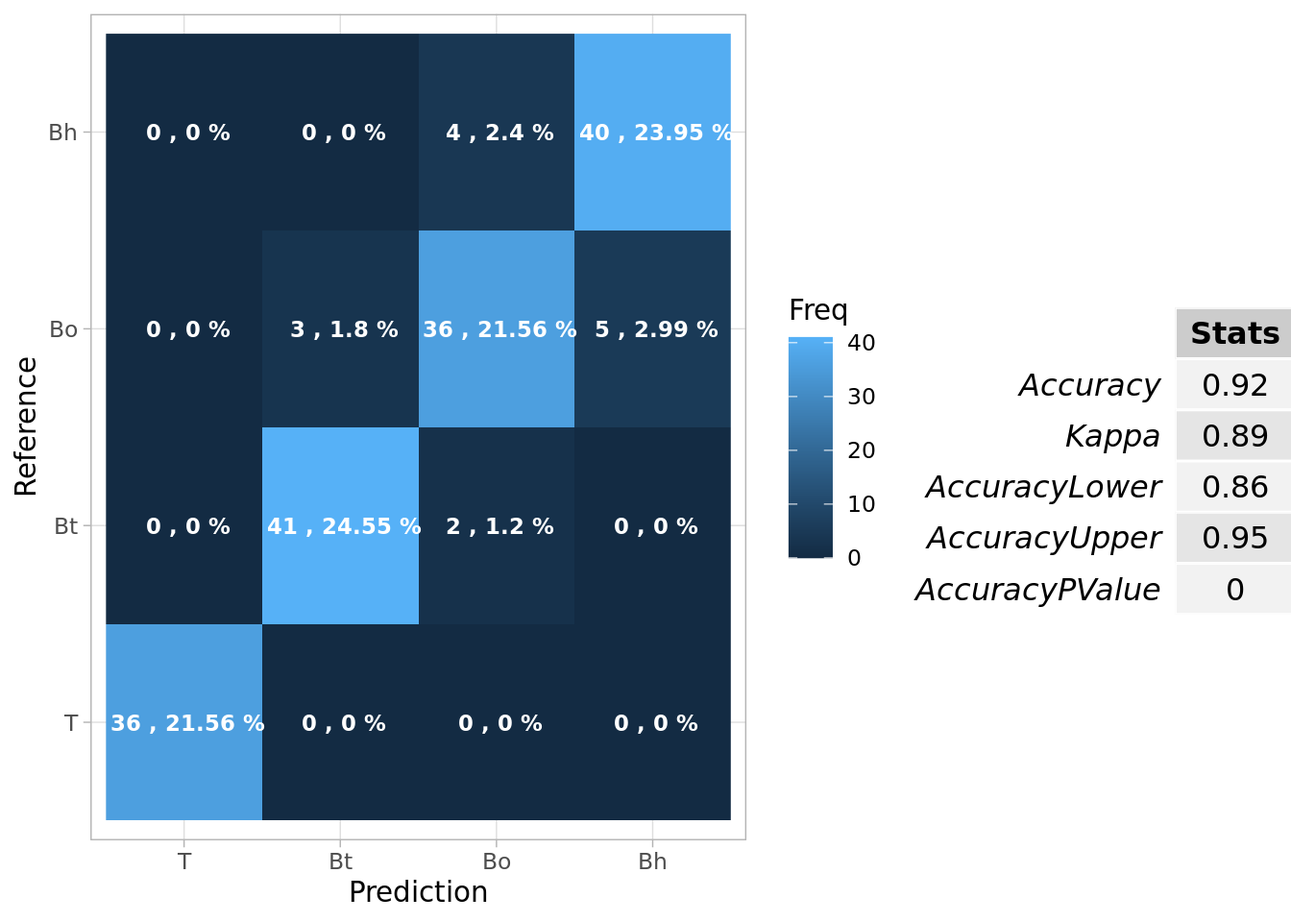
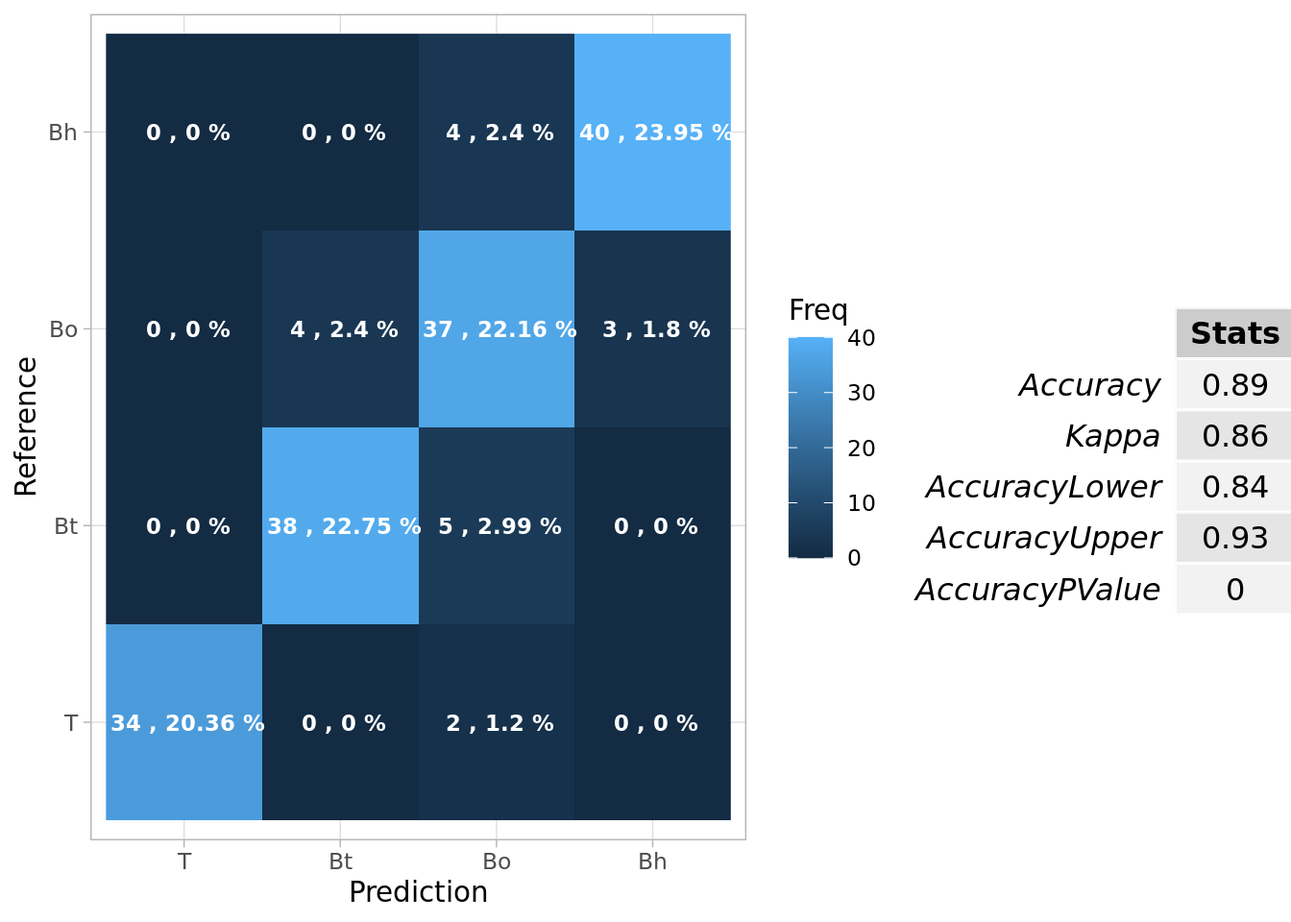
final report

diff --git a/classification.html b/classification.html
@@ -625,12 +625,12 @@ div.tocify {
 <a class="sourceLine" id="cb4-96" data-line-number="96">                       helperRFSelection[[<span class="st">&quot;maximalChangeIndex&quot;</span>]],</a>
 <a class="sourceLine" id="cb4-97" data-line-number="97">                       <span class="dt">preFiltered =</span> preFiltered)</a></code></pre></div>
 <div class="figure" style="text-align: center">
-<img src="figures/02_combinatorix_prepareSelect-1.png" alt="**Figure 1**: Plot of the development of the Random Forest variable importance of the 200 most important genes. For practical reasons concerning the smoothing, I limited the number of genes to 200. The red dots show the actual value of the variable importance, the green line smoothes these values and the blue vertical line indicated the point where the smoothed line changes the most." width="672" />
+<img src="figures/02_combinatorix_prepareSelect-1.png" alt="**Figure 1**: Plot of the development of the Random Forest variable importance of the 200 most important genes. For practical reasons concerning the smoothing, I limited the number of genes to 200. The red dots show the actual value of the variable importance, the green line smothes these values and the blue vertical line indicated the point where the smoothed line changes the most." width="672" />
 <p class="caption">
-<strong>Figure 1</strong>: Plot of the development of the Random Forest variable importance of the 200 most important genes. For practical reasons concerning the smoothing, I limited the number of genes to 200. The red dots show the actual value of the variable importance, the green line smoothes these values and the blue vertical line indicated the point where the smoothed line changes the most.
+<strong>Figure 1</strong>: Plot of the development of the Random Forest variable importance of the 200 most important genes. For practical reasons concerning the smoothing, I limited the number of genes to 200. The red dots show the actual value of the variable importance, the green line smothes these values and the blue vertical line indicated the point where the smoothed line changes the most.
 </p>
 </div>
-<p>Accordingly to the plot, I chose to use 50 genes, when performing the feature selection. For the comparison of the classifiers, I used two sets of selected genes: One set where I selected 50 genes and one set where I included all genes. Of course, there are many other ways to determine how many features should be included. The advantage of my approach is that it is reusable and that it quantifies the loss of importance of the features. The drawbacks are that it does not account for the total number of features in the data set and the selected number can be unfavorable in extreme cases of the distribution of the variable importance i.e. it selects only one or all genes. However, it was not the focus of this report to find a method that optimally selects the number of features. Thus, I wanted just an automated, out of the box way to do this. Figure 2 shows the same plot for the variance.</p>
+<p>Accordingly to the plot, I chose to use 50 genes, when performing the feature selection. For the comparison of the classifiers, I used two sets of selected genes: One set where I selected 50 genes and one set where I included all genes. Of course, there are many other ways to determine how many features should be included. The advantage of my approach is that it is reusable and that it quantifies the loss of importance of the features. The drawbacks are that it does not account for the total number of features in the data set and the selected number can be unfavorable in extreme cases of the distribution of the variable importance i.e. it selects only one or all genes. However, it was not the focus of this report to find a method that optimally selects the number of features. Thus, I wanted just an automated, out of the box way to do this. Figure 2 shows the same plot for the variance. Here I chose 125 genes.</p>
 <div class="sourceCode" id="cb5"><pre class="sourceCode r"><code class="sourceCode r"><a class="sourceLine" id="cb5-1" data-line-number="1"><span class="co">## Function for selecting genes based on Variance</span></a>
 <a class="sourceLine" id="cb5-2" data-line-number="2">SelectGenesByVariance &lt;-<span class="st"> </span><span class="cf">function</span>(trainIndex,</a>
 <a class="sourceLine" id="cb5-3" data-line-number="3">                                  numFeatures,</a>
@@ -650,9 +650,9 @@ div.tocify {
 <a class="sourceLine" id="cb5-17" data-line-number="17">                       helperVarSelection[[<span class="st">&quot;maximalChangeIndex&quot;</span>]],</a>
 <a class="sourceLine" id="cb5-18" data-line-number="18">                       <span class="dv">500</span>)</a></code></pre></div>
 <div class="figure" style="text-align: center">
-<img src="figures/02_combinatorix_plotVariance-1.png" alt="**Figure 2**: Plot of the variance of the 500 genes with the highest variances across samples. For practical reasons concerning the smoothing, I limited the number of genes to 500. The red dots show the actual value of the variable importance, the green line smoothes these values and the blue vertical line indicated the point where the smoothed line changes the most." width="672" />
+<img src="figures/02_combinatorix_plotVariance-1.png" alt="**Figure 2**: Plot of the variance of the 500 genes with the highest variances across samples. For practical reasons concerning the smoothing, I limited the number of genes to 500. The red dots show the actual value of the variable importance, the green line smothes these values and the blue vertical line indicated the point where the smoothed line changes the most." width="672" />
 <p class="caption">
-<strong>Figure 2</strong>: Plot of the variance of the 500 genes with the highest variances across samples. For practical reasons concerning the smoothing, I limited the number of genes to 500. The red dots show the actual value of the variable importance, the green line smoothes these values and the blue vertical line indicated the point where the smoothed line changes the most.
+<strong>Figure 2</strong>: Plot of the variance of the 500 genes with the highest variances across samples. For practical reasons concerning the smoothing, I limited the number of genes to 500. The red dots show the actual value of the variable importance, the green line smothes these values and the blue vertical line indicated the point where the smoothed line changes the most.
 </p>
 </div>
 <div class="sourceCode" id="cb6"><pre class="sourceCode r"><code class="sourceCode r"><a class="sourceLine" id="cb6-1" data-line-number="1"><span class="co">#### Feature Selection ####</span></a>
@@ -870,9 +870,9 @@ div.tocify {
 </tr>
 <tr class="odd">
 <td>RF 1000 Trees all Genes</td>
-<td align="right">0.0479</td>
-<td align="right">0.9521</td>
-<td align="left">0.9197-0.9845</td>
+<td align="right">0.0539</td>
+<td align="right">0.9461</td>
+<td align="left">0.9119-0.9804</td>
 </tr>
 <tr class="even">
 <td>RF 200 Trees RF Selection</td>
@@ -888,15 +888,15 @@ div.tocify {
 </tr>
 <tr class="even">
 <td>RF 1000 Trees RF Selection</td>
-<td align="right">0.0838</td>
-<td align="right">0.9162</td>
-<td align="left">0.8741-0.9582</td>
+<td align="right">0.1018</td>
+<td align="right">0.8982</td>
+<td align="left">0.8523-0.9441</td>
 </tr>
 <tr class="odd">
 <td>RF 200 Trees Variance Selection</td>
-<td align="right">0.1138</td>
-<td align="right">0.8862</td>
-<td align="left">0.8381-0.9344</td>
+<td align="right">0.1078</td>
+<td align="right">0.8922</td>
+<td align="left">0.8452-0.9392</td>
 </tr>
 <tr class="even">
 <td>RF 500 Trees Variance Selection</td>
@@ -912,9 +912,9 @@ div.tocify {
 </tr>
 </tbody>
 </table>
-<p>The accuracy when using all genes is with 94% very high. The 95% confidence interval is also reasonably narrow, which gives security about the result. An accuracy of 94% means that 94% of the samples were classified correctly. The number of trees seems to have no influence on the prediction accuracy when using all genes. Only when training the Classifier with a subset of selected genes the number of trees seems to influence the prediction accuracy. Increasing the number of trees from 200 to 500, lead to an improvement in the accuracy of 10.6 percentage points. A further increase in the number of trees did not improve the prediction accuracy. The feature selection did not have an impact on the prediction when the Random Forest Classifier was trained with more than 200 trees and it decreased the accuracy when trained with 200 trees.</p>
-<p>It is a bit unexpected that the number of trees did not have a meaningful influence on prediction accuracy. The used numbers of trees were all rather high and thus could be already considered as nearly optimal. The reason why I used many trees, is that the data set does contain over 20,000 genes. So using fewer trees could have lead to more differences in the prediction accuracies. The fact that feature selection did not have a meaningful impact on the Classifier is not unexpected. Firstly, Random Forests can deal with a large number of covariates <span class="citation">(Breiman 2001)</span>. This is due to the fact that it uses only a subset of covariates at each split. Secondly, I have already used a Random Forest to select covariates.</p>
-<p>In the following, I will report on the detailed results of the Random Forest Classifier with 1000 trees and all genes (which yields the exact same results as the other Random Forest Classifiers expect one). Additionally, I report on the results of the Random Forest Classifier when trained with 50 genes and 200 trees.</p>
+<p>The accuracy when using all genes is with over 94% very high. The 95% confidence interval is also reasonably narrow, which gives security about the result. An accuracy of 94% means that 94% of the samples were classified correctly. The number of trees seems to have little to no influence on the prediction accuracy when using all genes. Contemplating the prediction accuracy when the classifier was trained with the 50 selected genes by the Random Forest Variable Importance, the number of trees still has no meaningful impact. The accuracy ranges from 90% to 93% and is with that slightly lower than when trained with all genes. In contrast when the Classifier was trained with with the genes selected by the variance method the results were strange. The Random Forest with 500 trees did not classify anything correct. I regard this as an outlier, but in general that makes the Classifier highly questionable. Especially in the light that the prediction accuracy was high when trained with 200 genes (87 %) and 1000 genes (95 %). So here the increase of the number of trees lead to an increase in the accuracy.</p>
+<p>It is a bit unexpected that the number of trees did not have a meaningful influence on most of the prediction accuracies. The used numbers of trees were all rather high and thus could be already considered as nearly optimal. The reason why I used many trees, is that the data set does contain over 20,000 genes. So using fewer trees could have lead to more differences in the prediction accuracies. The fact that feature selection did not have a meaningful impact on the Classifier is not unexpected. Firstly, Random Forests can deal with a large number of covariates <span class="citation">(Breiman 2001)</span>. This is due to the fact that it uses only a subset of covariates at each split. Secondly, I have already used a Random Forest to select covariates. The one thing that stands out is that the one parametrization of the classifier did not classify anything correct. This makes the classifier highly unreliable.</p>
+<p>In the following, I will report on the detailed results of the Random Forest Classifier with 1000 trees and all genes (which yields the exact same results as the other Random Forest Classifiers expect one). Additionally, I report on the results of the Random Forest Classifier when trained with 125 genes (selected with the variance method) and 200 trees.</p>
 <div class="sourceCode" id="cb9"><pre class="sourceCode r"><code class="sourceCode r"><a class="sourceLine" id="cb9-1" data-line-number="1"><span class="co">#### Functions for displaying the results ####</span></a>
 <a class="sourceLine" id="cb9-2" data-line-number="2"><span class="co">## Functions for plotting a heatmap of a confusion table</span></a>
 <a class="sourceLine" id="cb9-3" data-line-number="3">plotResults &lt;-<span class="st"> </span><span class="cf">function</span>(res, response) {</a>
@@ -946,14 +946,14 @@ div.tocify {
 <strong>Figure 3</strong> shows a heatmap of the confusion table on the left and accuracy statistics on the right. This particular data comes from the Random Forest Classifier when trained with 1000 trees and all genes. Notes: T: T-ALL, Bt: TEL-AML1, Bo: pre-B ALL, Bh: hyperdiploid.
 </p>
 </div>
-<div class="sourceCode" id="cb10"><pre class="sourceCode r"><code class="sourceCode r"><a class="sourceLine" id="cb10-1" data-line-number="1"><span class="kw">plotResults</span>(resultVector[[<span class="dv">6</span>]], response)</a></code></pre></div>
+<div class="sourceCode" id="cb10"><pre class="sourceCode r"><code class="sourceCode r"><a class="sourceLine" id="cb10-1" data-line-number="1"><span class="kw">plotResults</span>(resultVector[[<span class="dv">7</span>]], response)</a></code></pre></div>
 <div class="figure" style="text-align: center">
 <img src="figures/02_combinatorix_rfSecond-1.png" alt="**Figure 4** shows a heatmap of the confusion table on the left and accuracy statistics on the right. This particular data comes from the Random Forest Classifier when trained with 200 trees and 50 selected genes. T: T-ALL, Bt: TEL-AML1, Bo: pre-B ALL, Bh: hyperdiploid." width="672" />
 <p class="caption">
 <strong>Figure 4</strong> shows a heatmap of the confusion table on the left and accuracy statistics on the right. This particular data comes from the Random Forest Classifier when trained with 200 trees and 50 selected genes. T: T-ALL, Bt: TEL-AML1, Bo: pre-B ALL, Bh: hyperdiploid.
 </p>
 </div>
-<p>Figures 3 and 4 display a heatmap of the confusion table of the classification together with statistics about the accuracy on the table on the right. The confusion table maps the predicted class to the actual class. Consequently, the diagonal of the table is representing correct classifications. In each field of the table, one can see the absolute and relative frequency of the prediction of a certain subtype. Values outside of the diagonal represent a wrong prediction. In the case of Figure 1, the classifier predicted four patients to have the subtype TEL-AML1, whereas they had the type pre-B ALL in reality. Since we are dealing with a multi-classification problem, False Positives and False Negatives are the same for the overall model. However, I will discuss these statistics per class at the end of the section for two selected classifiers. The table on the right displays accuracy statistics. The accuracy is simply the percentage of correctly classified samples. Cohen’s Kappa is a different measure of accuracy that accounts for the fact that correct classifications could occur by chance.</p>
+<p>Figures 3 and 4 display a heatmap of the confusion table of the classification together with statistics about the accuracy on the table on the right. The confusion table maps the predicted class to the actual class. Consequently, the diagonal of the table is representing correct classifications. In each field of the table, one can see the absolute and relative frequency of the prediction of a certain subtype. Values outside of the diagonal represent a wrong prediction. In the case of Figure 1, the classifier predicted three patients to have the subtype TEL-AML1, whereas they had the type pre-B ALL in reality. Since we are dealing with a multi-classification problem, False Positives and False Negatives are the same for the overall model. However, I will discuss these statistics per class at the end of the section for two selected classifiers. The table on the right displays accuracy statistics. The accuracy is simply the percentage of correctly classified samples. Cohen’s Kappa is a different measure of accuracy that accounts for the fact that correct classifications could occur by chance.</p>
 <p>The second method of interest in this work was the SVM for classification. Again I start with an overview and discuss more details later on. For the SVM I used four different kernel methods, namely radial, linear, polynomial and sigmoid. As done with the Random Forest Classifier I used one time all genes and one time 50 genes, selected via the Random Forest variable Importance, as described above. Table 4 shows an overview of the MER, accuracy and its 95% confidence interval of the SVM Classifier with different kernels.</p>
 <div class="sourceCode" id="cb11"><pre class="sourceCode r"><code class="sourceCode r"><a class="sourceLine" id="cb11-1" data-line-number="1">svmResultTable &lt;-<span class="st"> </span>resultTable[<span class="dv">10</span><span class="op">:</span><span class="dv">21</span>, ]</a>
 <a class="sourceLine" id="cb11-2" data-line-number="2"><span class="kw">kable</span>(svmResultTable, <span class="dt">caption =</span> <span class="st">&quot;Table 4: Overview of the SVM Classifier Performance with different Parameters&quot;</span>)</a></code></pre></div>
@@ -976,9 +976,9 @@ div.tocify {
 </tr>
 <tr class="even">
 <td>SVM Linear Kernel all Genes</td>
-<td align="right">0.1437</td>
-<td align="right">0.8563</td>
-<td align="left">0.8031-0.9095</td>
+<td align="right">0.1317</td>
+<td align="right">0.8683</td>
+<td align="left">0.817-0.9196</td>
 </tr>
 <tr class="odd">
 <td>SVM Ploynomial Kernel all Genes</td>
@@ -988,9 +988,9 @@ div.tocify {
 </tr>
 <tr class="even">
 <td>SVM Sigmoid Kernel all Genes</td>
-<td align="right">0.0659</td>
-<td align="right">0.9341</td>
-<td align="left">0.8965-0.9718</td>
+<td align="right">0.0599</td>
+<td align="right">0.9401</td>
+<td align="left">0.9041-0.9761</td>
 </tr>
 <tr class="odd">
 <td>SVM Radial Kernel RF Selection</td>
@@ -1012,9 +1012,9 @@ div.tocify {
 </tr>
 <tr class="even">
 <td>SVM Sigmoid Kernel RF Selection</td>
-<td align="right">0.0659</td>
-<td align="right">0.9341</td>
-<td align="left">0.8965-0.9718</td>
+<td align="right">0.0719</td>
+<td align="right">0.9281</td>
+<td align="left">0.889-0.9673</td>
 </tr>
 <tr class="odd">
 <td>SVM Radial Kernel Variance Selection</td>
@@ -1042,101 +1042,101 @@ div.tocify {
 </tr>
 </tbody>
 </table>
-<p>In general, the accuracy of the SVM Classifiers is high ranging from 0.86 to 0.94. The confidence intervals are also reasonably narrow. The overall difference between the accuracy of the classifier with different Kernels is small (under two and a half percentage points), when trained with all genes. Training the SVM Classifier with 50 selected genes yields in a difference of over five percentage points between different kernels. The predictions were slightly more accurate when training the SVM with all genes. I would have expected this since the SVM is highly robust against overfitting since it allows misclassification with the incorporation of so-called slack variables. The ability to always map the feature space also helps to deal with high dimensional data.</p>
-<p>Given the small differences in accuracy between most of the kernels, it is hard to argue, why one kernel might be one percentage point more accurate than another. However, I try to compare shortly the most accurate kernel (radial) with the least accurate kernel (sigmoid). Figure 5 shows the heatmap of the confusion table of the SVM Classifier with the radial kernel when trained with all genes. Figure 6 shows the same plot for the SVM Classifier with the sigmoid kernel when trained with 50 selected genes.</p>
+<p>In general, the accuracy of the SVM Classifiers is heterogenous varying from 0.86 to 0.95, with to not so accurate version with an accuracy of 41 %, 49 % and 73 %. The confidence intervals are also reasonably narrow. The overall difference between the accuracy of the classifier with different Kernels is heterogenous (49 % - 95 %) when trained with all genes. The polynomial kernel yielded the best accuracy, the radial the worst for this case. When using only the selected genes by the Random Forest the accuracy becomes more homogenous ranging from 86 % to 95 %, with this time the radial kernel being the best. The selected genes with the variance method lead again to heterogeneous results (41 % - 91 %).</p>
+<p>It seems that different kernels are highly sensitive to the type of selected genes. The number of selected genes seems to have no real influence. Overall the polynomial kernel seems to be a good method to map the data to a higher dimension. It could be because it gives takes combinations of features into account. In general we want to have a kernel that is not too dependent on the selected genes, so the polynomial kernel what be the prefered choice here. Figure 5 shows the heatmap of the confusion table of the SVM Classifier with the polynomial kernel when trained with all genes. Figure 6 shows the same plot for the SVM Classifier with the sigmoid kernel when trained with 50 selected genes.</p>
 <div class="sourceCode" id="cb12"><pre class="sourceCode r"><code class="sourceCode r"><a class="sourceLine" id="cb12-1" data-line-number="1"><span class="kw">plotResults</span>(resultVector[[<span class="dv">14</span>]], response)</a></code></pre></div>
 <div class="figure" style="text-align: center">
-<img src="figures/02_combinatorix_displaySVM-1.png" alt="**Figure 5** shows a heatmap of the confusion table on the left and accuracy statistics on the right. This particular data comes from the SVM Classifier when trained with the radial Kernel and all. Notes: T: T-ALL, Bt:TEL-AML1, Bo: pre-B ALL, Bh: hyperdiploid." width="672" />
+<img src="figures/02_combinatorix_displaySVM-1.png" alt="**Figure 5** shows a heatmap of the confusion table on the left and accuracy statistics on the right. This particular data comes from the SVM Classifier when trained with the polynomial and all genes. Notes: T: T-ALL, Bt:TEL-AML1, Bo: pre-B ALL, Bh: hyperdiploid." width="672" />
 <p class="caption">
-<strong>Figure 5</strong> shows a heatmap of the confusion table on the left and accuracy statistics on the right. This particular data comes from the SVM Classifier when trained with the radial Kernel and all. Notes: T: T-ALL, Bt:TEL-AML1, Bo: pre-B ALL, Bh: hyperdiploid.
+<strong>Figure 5</strong> shows a heatmap of the confusion table on the left and accuracy statistics on the right. This particular data comes from the SVM Classifier when trained with the polynomial and all genes. Notes: T: T-ALL, Bt:TEL-AML1, Bo: pre-B ALL, Bh: hyperdiploid.
 </p>
 </div>
 <div class="sourceCode" id="cb13"><pre class="sourceCode r"><code class="sourceCode r"><a class="sourceLine" id="cb13-1" data-line-number="1"><span class="kw">plotResults</span>(resultVector[[<span class="dv">18</span>]], response)</a></code></pre></div>
 <div class="figure" style="text-align: center">
-<img src="figures/02_combinatorix_displaySVM2-1.png" alt="**Figure 6** shows a heatmap of the confusion table on the left and accuracy statistics on the right. This particular data comes from the SVM Classifier when trained with the sigmoid Kernel and all. Notes: T: T-ALL, Bt:TEL-AML1, Bo: pre-B ALL, Bh: hyperdiploid." width="672" />
+<img src="figures/02_combinatorix_displaySVM2-1.png" alt="**Figure 6** shows a heatmap of the confusion table on the left and accuracy statistics on the right. This particular data comes from the SVM Classifier when trained with the radial kernel and the 125 genes from the variance method. Notes: T: T-ALL, Bt:TEL-AML1, Bo: pre-B ALL, Bh: hyperdiploid." width="672" />
 <p class="caption">
-<strong>Figure 6</strong> shows a heatmap of the confusion table on the left and accuracy statistics on the right. This particular data comes from the SVM Classifier when trained with the sigmoid Kernel and all. Notes: T: T-ALL, Bt:TEL-AML1, Bo: pre-B ALL, Bh: hyperdiploid.
+<strong>Figure 6</strong> shows a heatmap of the confusion table on the left and accuracy statistics on the right. This particular data comes from the SVM Classifier when trained with the radial kernel and the 125 genes from the variance method. Notes: T: T-ALL, Bt:TEL-AML1, Bo: pre-B ALL, Bh: hyperdiploid.
 </p>
 </div>
-<p>Figures 5 and 6 follow the same principle as Figures 3 and 4, thus I do not explain the general structure of the figures a second time. When trained with all genes and the radial kernels the Classifiers predicted all T-ALL types correctly. Four samples with an actual type of TEL-ALM1 were wrongly classified as pre-B ALL subtype. Two samples with the pre-B ALL subtype were falsely classified as hyperdiploid and four hyperdiploid subtypes were wrongly classified as pre-B ALL type. This is actually the exact same distribution as shown in Figure 1.</p>
-<p>The total numbers of misclassifications were higher for the SVM Classifier with the sigmoid kernels, but the origins of the mistakes were similar. The classifier made the fewest mistakes for the T-ALL subtypes. The exact numbers can be found in the plot. As stated previously the notions of false positive and false negatives only make sense when looking at the statistics per subtype. This is done in the following for the two best classifiers (best SVM and best Random Forest).</p>
+<p>Figures 5 and 6 follow the same principle as Figures 3 and 4, thus I do not explain the general structure of the figures a second time. When trained with all genes and the polynomial kernel the tlassifier predicted all T-ALL types correctly. Three samples with an actual type of TEL-ALM1 were wrongly classified as pre-B ALL subtype. Two samples with the pre-B ALL subtype were falsely classified as hyperdiploid and one as TEL-AML1. Two hyperdiploid subtypes were wrongly classified as pre-B ALL type.</p>
+<p>The distribution of false classification when trained with the radial kernel and the genes selected with the variance method was rather odd. The classifier predicted 78 % of all subtypes to be the pre-B ALL type. This false positive rate for the pre-B ALL subtype leads consequently to a low false negative and low true positive rate for the other classes. As stated previously the notions of false positive and false negatives only make sense when looking at the statistics per subtype. This is done in the following for the two best classifiers (best SVM and best Random Forest).</p>
 <p>Tables 5 shows the statistics per subtype for the SVM Classifier with all genes and the radial kernel and the Random Forest Classifier with 1000 trees and all genes. The statistics for both classifiers were equal so this table serves as a summary for both classifiers.</p>
-<div class="sourceCode" id="cb14"><pre class="sourceCode r"><code class="sourceCode r"><a class="sourceLine" id="cb14-1" data-line-number="1">cm.svmBest &lt;-<span class="st"> </span><span class="kw">t</span>(<span class="kw">confusionMatrix</span>(response, resultVector[[<span class="dv">14</span>]])<span class="op">$</span>byClass)</a>
-<a class="sourceLine" id="cb14-2" data-line-number="2"><span class="kw">kable</span>(<span class="kw">round</span>(cm.svmBest,<span class="dv">4</span>), <span class="dt">caption =</span> <span class="st">&quot;Table 5: Classwise statistics of the SVM Classifier when trained with the radial kernel and the selected genes by the Random Forest Variable Importance.&quot;</span>)</a></code></pre></div>
+<div class="sourceCode" id="cb14"><pre class="sourceCode r"><code class="sourceCode r"><a class="sourceLine" id="cb14-1" data-line-number="1">cm.svmBest &lt;-<span class="st"> </span><span class="kw">t</span>(<span class="kw">confusionMatrix</span>(response, resultVector[[<span class="dv">12</span>]])<span class="op">$</span>byClass)</a>
+<a class="sourceLine" id="cb14-2" data-line-number="2"><span class="kw">kable</span>(<span class="kw">round</span>(cm.svmBest,<span class="dv">4</span>), <span class="dt">caption =</span> <span class="st">&quot;Table 5: Classwise statistics of the SVM Classifier trained with the polynomial kernel and allgenes. And the Random Forest Classifier trained with 1000 trees and all Genes&quot;</span>)</a></code></pre></div>
 <table>
-<caption>Table 5: Classwise statistics of the SVM Classifier when trained with the radial kernel and the selected genes by the Random Forest Variable Importance.</caption>
+<caption>Table 5: Classwise statistics of the SVM Classifier trained with the polynomial kernel and allgenes. And the Random Forest Classifier trained with 1000 trees and all Genes</caption>
 <thead>
 <tr class="header">
 <th></th>
 <th align="right">Class: T</th>
 <th align="right">Class: Bt</th>
-<th align="right">Class: Bo</th>
 <th align="right">Class: Bh</th>
+<th align="right">Class: Bo</th>
 </tr>
 </thead>
 <tbody>
 <tr class="odd">
 <td>Sensitivity</td>
 <td align="right">1.0000</td>
-<td align="right">0.9333</td>
+<td align="right">0.9348</td>
+<td align="right">0.9535</td>
 <td align="right">0.9286</td>
-<td align="right">0.9545</td>
 </tr>
 <tr class="even">
 <td>Specificity</td>
 <td align="right">1.0000</td>
-<td align="right">0.9918</td>
+<td align="right">1.0000</td>
+<td align="right">0.9758</td>
 <td align="right">0.9600</td>
-<td align="right">0.9837</td>
 </tr>
 <tr class="odd">
 <td>Pos Pred Value</td>
 <td align="right">1.0000</td>
-<td align="right">0.9767</td>
+<td align="right">1.0000</td>
+<td align="right">0.9318</td>
 <td align="right">0.8864</td>
-<td align="right">0.9545</td>
 </tr>
 <tr class="even">
 <td>Neg Pred Value</td>
 <td align="right">1.0000</td>
 <td align="right">0.9758</td>
-<td align="right">0.9756</td>
 <td align="right">0.9837</td>
+<td align="right">0.9756</td>
 </tr>
 <tr class="odd">
 <td>Precision</td>
 <td align="right">1.0000</td>
-<td align="right">0.9767</td>
+<td align="right">1.0000</td>
+<td align="right">0.9318</td>
 <td align="right">0.8864</td>
-<td align="right">0.9545</td>
 </tr>
 <tr class="even">
 <td>Recall</td>
 <td align="right">1.0000</td>
-<td align="right">0.9333</td>
+<td align="right">0.9348</td>
+<td align="right">0.9535</td>
 <td align="right">0.9286</td>
-<td align="right">0.9545</td>
 </tr>
 <tr class="odd">
 <td>F1</td>
 <td align="right">1.0000</td>
-<td align="right">0.9545</td>
+<td align="right">0.9663</td>
+<td align="right">0.9425</td>
 <td align="right">0.9070</td>
-<td align="right">0.9545</td>
 </tr>
 <tr class="even">
 <td>Prevalence</td>
 <td align="right">0.2156</td>
-<td align="right">0.2695</td>
+<td align="right">0.2754</td>
+<td align="right">0.2575</td>
 <td align="right">0.2515</td>
-<td align="right">0.2635</td>
 </tr>
 <tr class="odd">
 <td>Detection Rate</td>
 <td align="right">0.2156</td>
-<td align="right">0.2515</td>
+<td align="right">0.2575</td>
+<td align="right">0.2455</td>
 <td align="right">0.2335</td>
-<td align="right">0.2515</td>
 </tr>
 <tr class="even">
 <td>Detection Prevalence</td>
@@ -1148,115 +1148,25 @@ div.tocify {
 <tr class="odd">
 <td>Balanced Accuracy</td>
 <td align="right">1.0000</td>
-<td align="right">0.9626</td>
+<td align="right">0.9674</td>
+<td align="right">0.9646</td>
 <td align="right">0.9443</td>
-<td align="right">0.9691</td>
 </tr>
 </tbody>
 </table>
 <div class="sourceCode" id="cb15"><pre class="sourceCode r"><code class="sourceCode r"><a class="sourceLine" id="cb15-1" data-line-number="1"><span class="co">#grid.arrange(tableGrob(round(cm.svmBest,4)))</span></a>
-<a class="sourceLine" id="cb15-2" data-line-number="2">cm.rfBest &lt;-<span class="st"> </span><span class="kw">t</span>(<span class="kw">confusionMatrix</span>(response, resultVector[[<span class="dv">3</span>]])<span class="op">$</span>byClass)</a>
-<a class="sourceLine" id="cb15-3" data-line-number="3"><span class="kw">kable</span>(<span class="kw">round</span>(cm.svmBest,<span class="dv">4</span>), <span class="dt">caption =</span> <span class="st">&quot;Table 6: Classwise statistics of the Random Forest Classifier trained with 1000 trees and all Genes.&quot;</span>)</a></code></pre></div>
-<table>
-<caption>Table 6: Classwise statistics of the Random Forest Classifier trained with 1000 trees and all Genes.</caption>
-<thead>
-<tr class="header">
-<th></th>
-<th align="right">Class: T</th>
-<th align="right">Class: Bt</th>
-<th align="right">Class: Bo</th>
-<th align="right">Class: Bh</th>
-</tr>
-</thead>
-<tbody>
-<tr class="odd">
-<td>Sensitivity</td>
-<td align="right">1.0000</td>
-<td align="right">0.9333</td>
-<td align="right">0.9286</td>
-<td align="right">0.9545</td>
-</tr>
-<tr class="even">
-<td>Specificity</td>
-<td align="right">1.0000</td>
-<td align="right">0.9918</td>
-<td align="right">0.9600</td>
-<td align="right">0.9837</td>
-</tr>
-<tr class="odd">
-<td>Pos Pred Value</td>
-<td align="right">1.0000</td>
-<td align="right">0.9767</td>
-<td align="right">0.8864</td>
-<td align="right">0.9545</td>
-</tr>
-<tr class="even">
-<td>Neg Pred Value</td>
-<td align="right">1.0000</td>
-<td align="right">0.9758</td>
-<td align="right">0.9756</td>
-<td align="right">0.9837</td>
-</tr>
-<tr class="odd">
-<td>Precision</td>
-<td align="right">1.0000</td>
-<td align="right">0.9767</td>
-<td align="right">0.8864</td>
-<td align="right">0.9545</td>
-</tr>
-<tr class="even">
-<td>Recall</td>
-<td align="right">1.0000</td>
-<td align="right">0.9333</td>
-<td align="right">0.9286</td>
-<td align="right">0.9545</td>
-</tr>
-<tr class="odd">
-<td>F1</td>
-<td align="right">1.0000</td>
-<td align="right">0.9545</td>
-<td align="right">0.9070</td>
-<td align="right">0.9545</td>
-</tr>
-<tr class="even">
-<td>Prevalence</td>
-<td align="right">0.2156</td>
-<td align="right">0.2695</td>
-<td align="right">0.2515</td>
-<td align="right">0.2635</td>
-</tr>
-<tr class="odd">
-<td>Detection Rate</td>
-<td align="right">0.2156</td>
-<td align="right">0.2515</td>
-<td align="right">0.2335</td>
-<td align="right">0.2515</td>
-</tr>
-<tr class="even">
-<td>Detection Prevalence</td>
-<td align="right">0.2156</td>
-<td align="right">0.2575</td>
-<td align="right">0.2635</td>
-<td align="right">0.2635</td>
-</tr>
-<tr class="odd">
-<td>Balanced Accuracy</td>
-<td align="right">1.0000</td>
-<td align="right">0.9626</td>
-<td align="right">0.9443</td>
-<td align="right">0.9691</td>
-</tr>
-</tbody>
-</table>
-<div class="sourceCode" id="cb16"><pre class="sourceCode r"><code class="sourceCode r"><a class="sourceLine" id="cb16-1" data-line-number="1"><span class="co">#kable(round(cm.rfBest, 4), caption = &quot;Table 6: Classwise performance of the Random Forest Classifier when trainied with 1000 trees and all genes&quot;)</span></a>
-<a class="sourceLine" id="cb16-2" data-line-number="2"><span class="co">#grid.arrange(tableGrob(round(cm.rfBest, 4)),</span></a>
-<a class="sourceLine" id="cb16-3" data-line-number="3"><span class="co">#             tableGrob(round(cm.svmBest,4)), textGrob(&quot;A&quot;), textGrob(&quot;B&quot;),</span></a>
-<a class="sourceLine" id="cb16-4" data-line-number="4"><span class="co">#            nrow = 2, ncol = 2)</span></a></code></pre></div>
+<a class="sourceLine" id="cb15-2" data-line-number="2"><span class="co">#cm.rfBest &lt;- t(confusionMatrix(response, resultVector[[3]])$byClass)</span></a>
+<a class="sourceLine" id="cb15-3" data-line-number="3"><span class="co">#kable(round(cm.svmBest,4), caption = &quot;Table 6: Classwise statistics of the Random Forest Classifier trained with 1000 trees and all Genes.&quot;)</span></a>
+<a class="sourceLine" id="cb15-4" data-line-number="4"><span class="co">#kable(round(cm.rfBest, 4), caption = &quot;Table 6: Classwise performance of the Random Forest Classifier when trainied with 1000 trees and all genes&quot;)</span></a>
+<a class="sourceLine" id="cb15-5" data-line-number="5"><span class="co">#grid.arrange(tableGrob(round(cm.rfBest, 4)),</span></a>
+<a class="sourceLine" id="cb15-6" data-line-number="6"><span class="co">#             tableGrob(round(cm.svmBest,4)), textGrob(&quot;A&quot;), textGrob(&quot;B&quot;),</span></a>
+<a class="sourceLine" id="cb15-7" data-line-number="7"><span class="co">#            nrow = 2, ncol = 2)</span></a></code></pre></div>
+<p>A few remarks to specificity, sensitivity and the positive predictive value: A high specificity means that a negative test result means that is very likely that a patient does not have a disease. So a high specificity is very desirable when dealing with serious illness, since it has lethal consequences if the test fails to identify a healthy patient. A high sensitivity says that it is very likely that a positive test means that a patient has actual a disease. A high sensitivity thus is especially important for diseases where the treatment is dangerous. In practice the value of the positive predictive value is particularly interesting since it gives the likelihood of actually having a disease when receiving a positive test result. As mentioned before the notion of these criterias are usually used in two class classifications and not common in multiclass classification settings. Thus Table 5 shows these criteria only classwise. Since we contemplating the two best classifiers all values are very high. It is notable however that the T-ALL type gets classified perfectly, while there are few mistakes for the other classes. Perhaps the T-ALL type could have a very distinct expression pattern.</p>
 </div>
 <div id="conclusion" class="section level1">
 <h1>Conclusion</h1>
-<p>In summary, I did not find large differences in the prediction accuracy of the tested classifiers depending on the used parameters. Both the SVM and Random Forest Classifiers are robust against overfitting and thus did not benefit from feature selection. For the Random Forest, 500 trees could be a good number of trees to use and the radial kernels for the SVM classifier performed well in my analysis. Again, the differences in accuracy were not very high.</p>
-<p>The parameters could have a bigger impact depending on the data set. Therefore, it could be interesting for future studies to compare the performance of a Classifier depending on its parameters in different datasets.</p>
+<p>In summary, the different classifiers where dependent on the combination of selected genes and parameters. Different parameter sets yielded in highly heterogenous results depending on which genes I included in the analysis. However, both the SVM and Random Forest Classifiers are robust against overfitting and thus did not benefit from dimension reduction. For the Random Forest, 1000 trees could be a good number of trees to use and the polynomial kernel for the SVM classifier performed well in my analysis. Again, the differences in accuracy were not very high.</p>
+<p>The parameters could have a bigger impact (independent of the selected genes) depending on the data set. Therefore, it could be interesting for future studies to compare the performance of a Classifier depending on its parameters in different datasets.</p>
 </div>
 <div id="references" class="section level1 unnumbered">
 <h1>References</h1>
